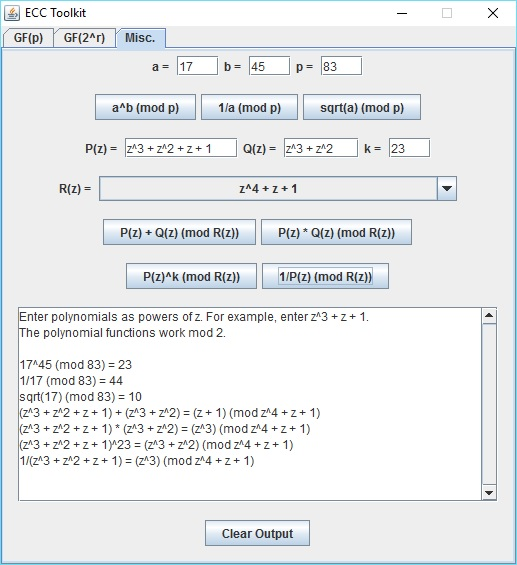
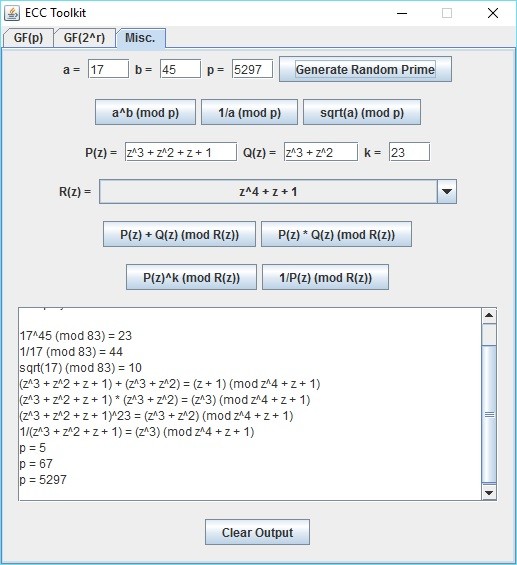
added random prime generator

diff --git a/src/MiscPanel.java b/src/MiscPanel.java
@@ -4,6 +4,7 @@ import java.awt.event.ActionListener;
 import java.io.BufferedReader;
 import java.io.FileReader;
 import java.io.IOException;
+import java.util.Random;
 
 import javax.swing.*;
 
@@ -80,7 +81,18 @@ public class MiscPanel extends JPanel {
 					_prime.setText("" + prime);
 				}
 			}
-		});	
+		});
+		
+		JButton randPrime = new JButton("Generate Random Prime");
+		randPrime.addActionListener(new ActionListener() {
+			public void actionPerformed(ActionEvent e) {
+				Random rand = new Random();
+				int numDigits = Math.floorMod(rand.nextInt(), 4) + 1;
+				prime  = ECMath.randomPrime(numDigits); // prime with <= 4 digits
+				_prime.setText("" + prime);
+				output.setText(output.getText() + "p = " + prime + "\n");
+			}
+		});
 		
 		modularInputPan.add(new JLabel("a = "));
 		modularInputPan.add(_a);
@@ -88,6 +100,7 @@ public class MiscPanel extends JPanel {
 		modularInputPan.add(_b);
 		modularInputPan.add(new JLabel("p = "));
 		modularInputPan.add(_prime);
+		modularInputPan.add(randPrime);
 		
 		JPanel modularPan = new JPanel();
 		modularPan.setLayout(new FlowLayout());

diff --git a/src/ECMath.java b/src/ECMath.java
@@ -145,6 +145,18 @@ public class ECMath {
 		return true;
 	}
 	
+	public static long randomPrime(int n) {
+		Random rand = new Random();
+		long rval = 0;
+		while(!isPrime(rval)) {
+			rval = Math.floorMod(rand.nextLong(), (int)Math.pow(10, n));
+			if(rval <= 3) {
+				rval = 0;
+			}
+		}
+		return rval;
+	}
+	
 	public static List<Long> allFactors(long N) { /* this is not optimally efficient, but this program is supposed to be
 	for instructive purposes only, and only uses fields with under 10000 elements */
 		List<Long> factors = new ArrayList<Long>();
@@ -164,5 +176,6 @@ public class ECMath {
 		for(long i = 100; i < 200; i++) {
 			System.out.println(i + " " + isPrime(i));
 		}
+		System.out.println(randomPrime(4));
 	}
 }
